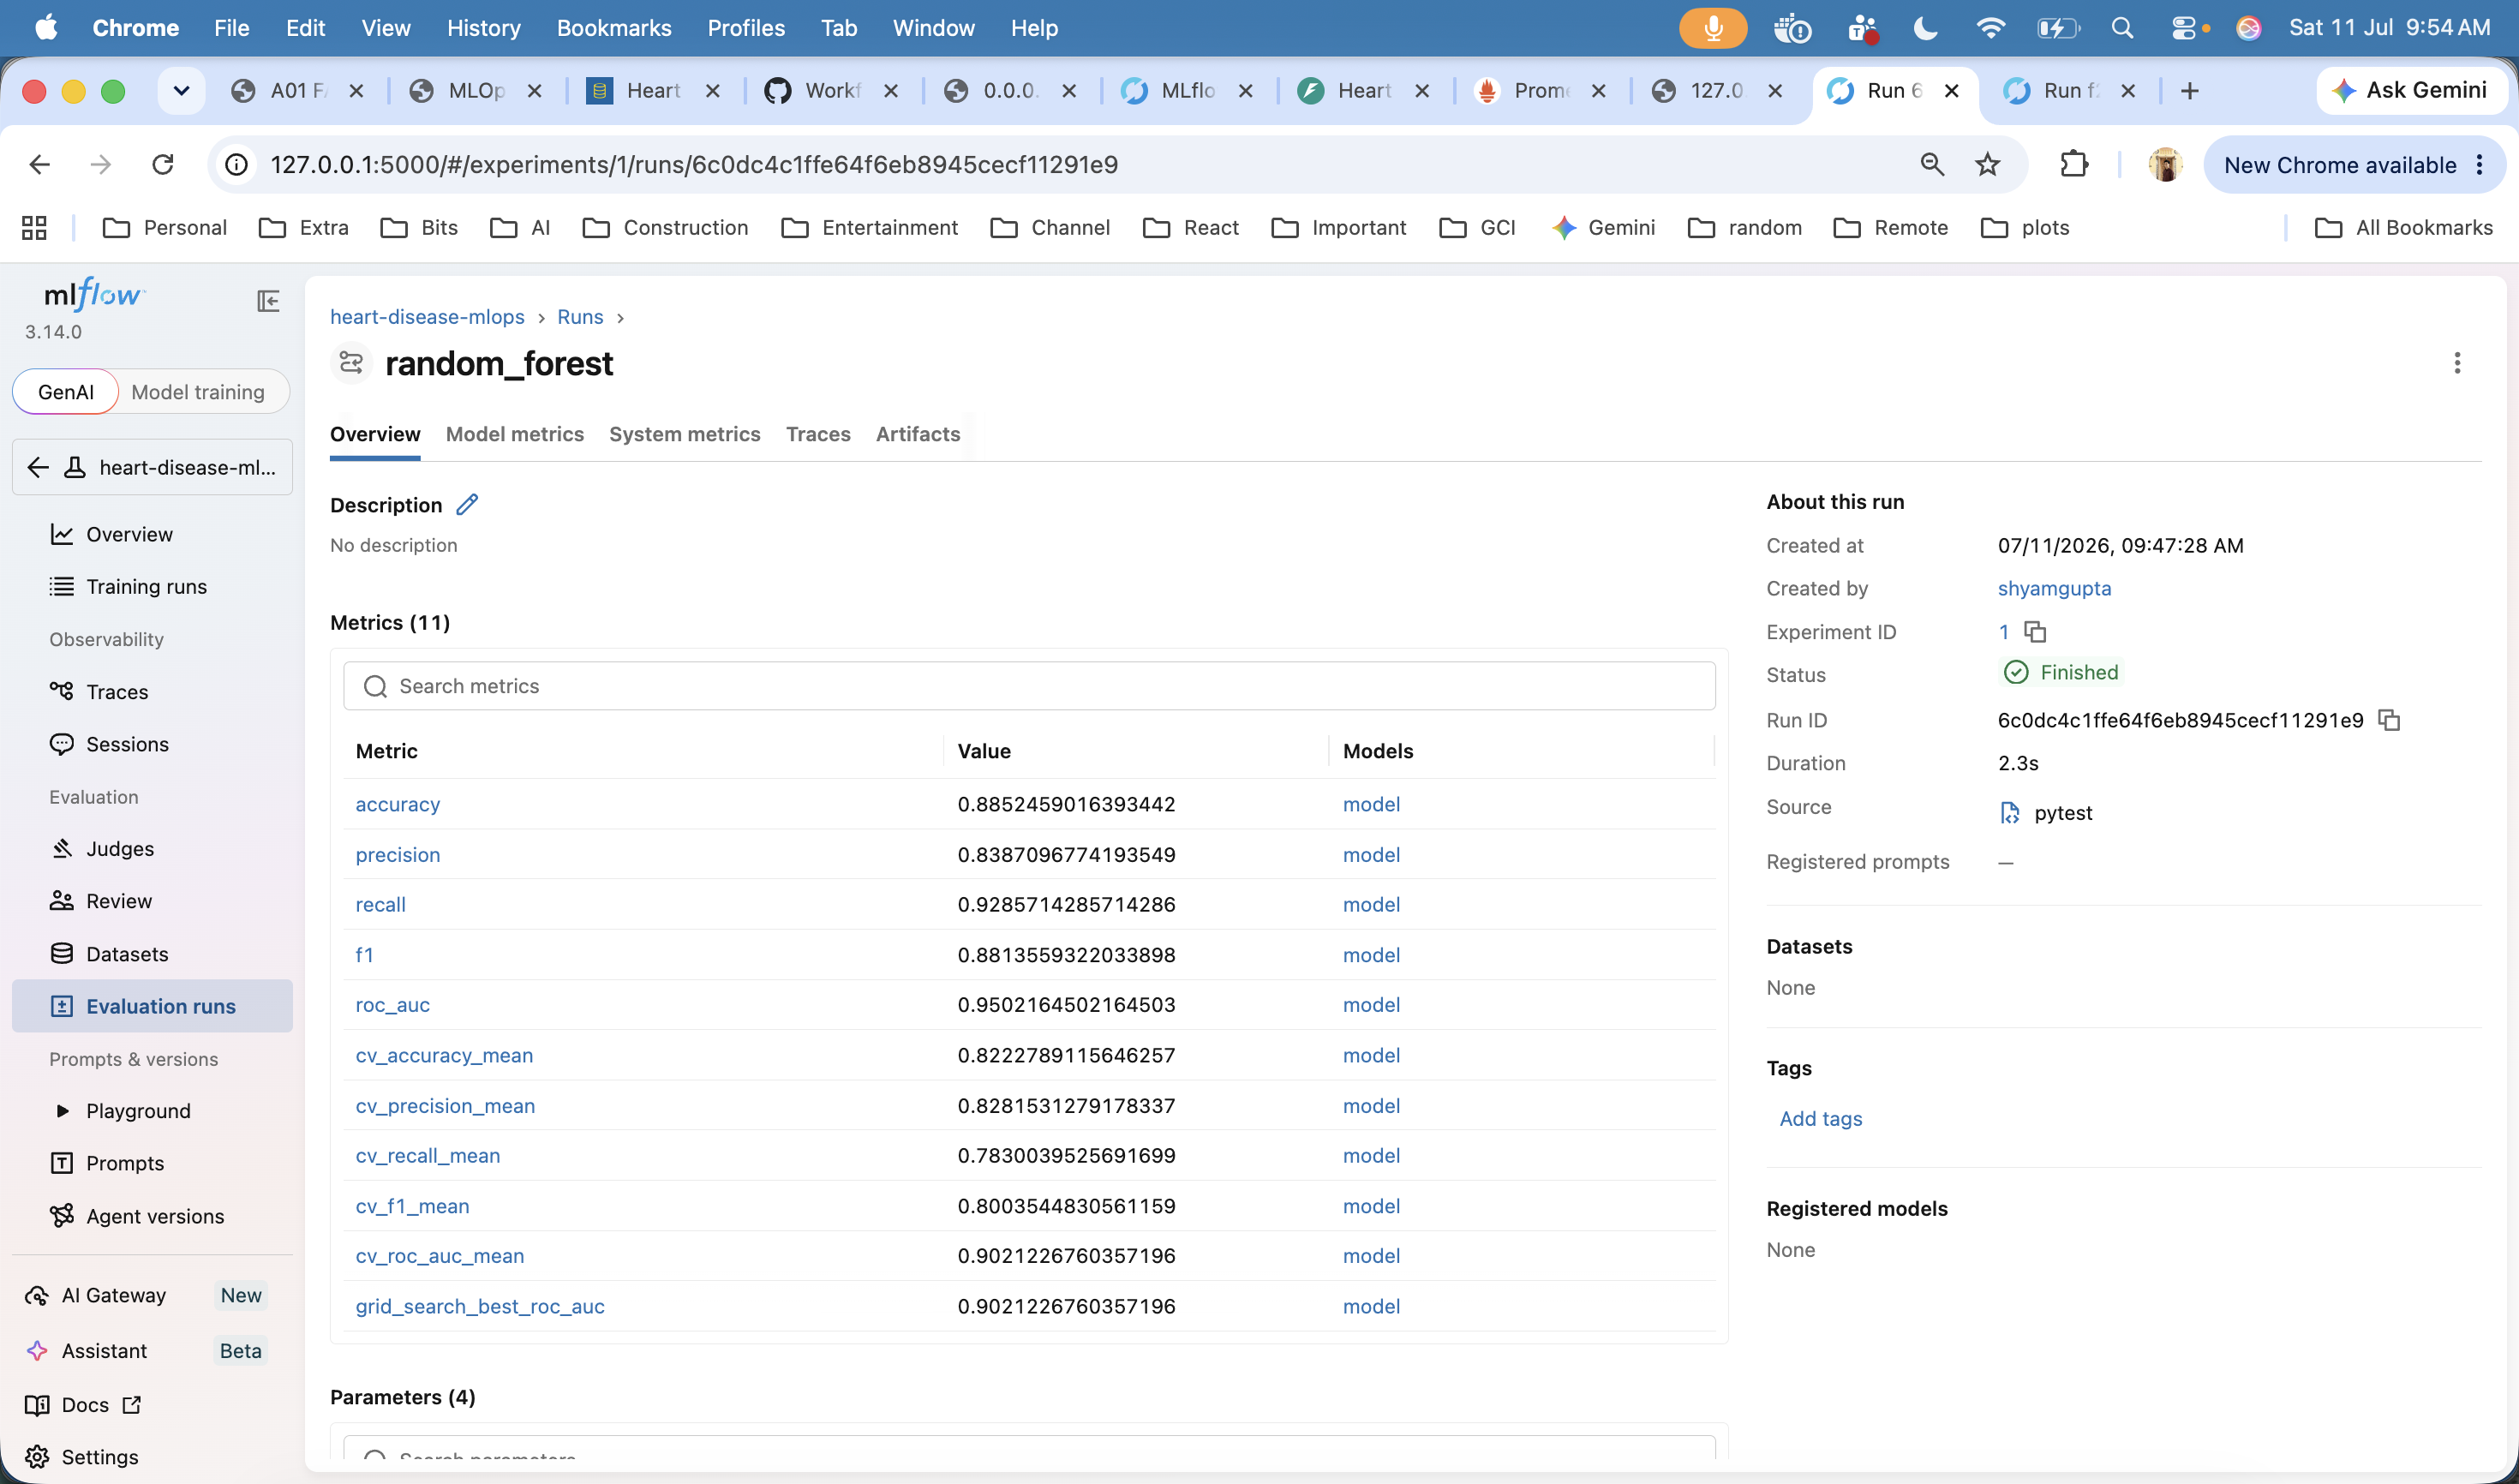
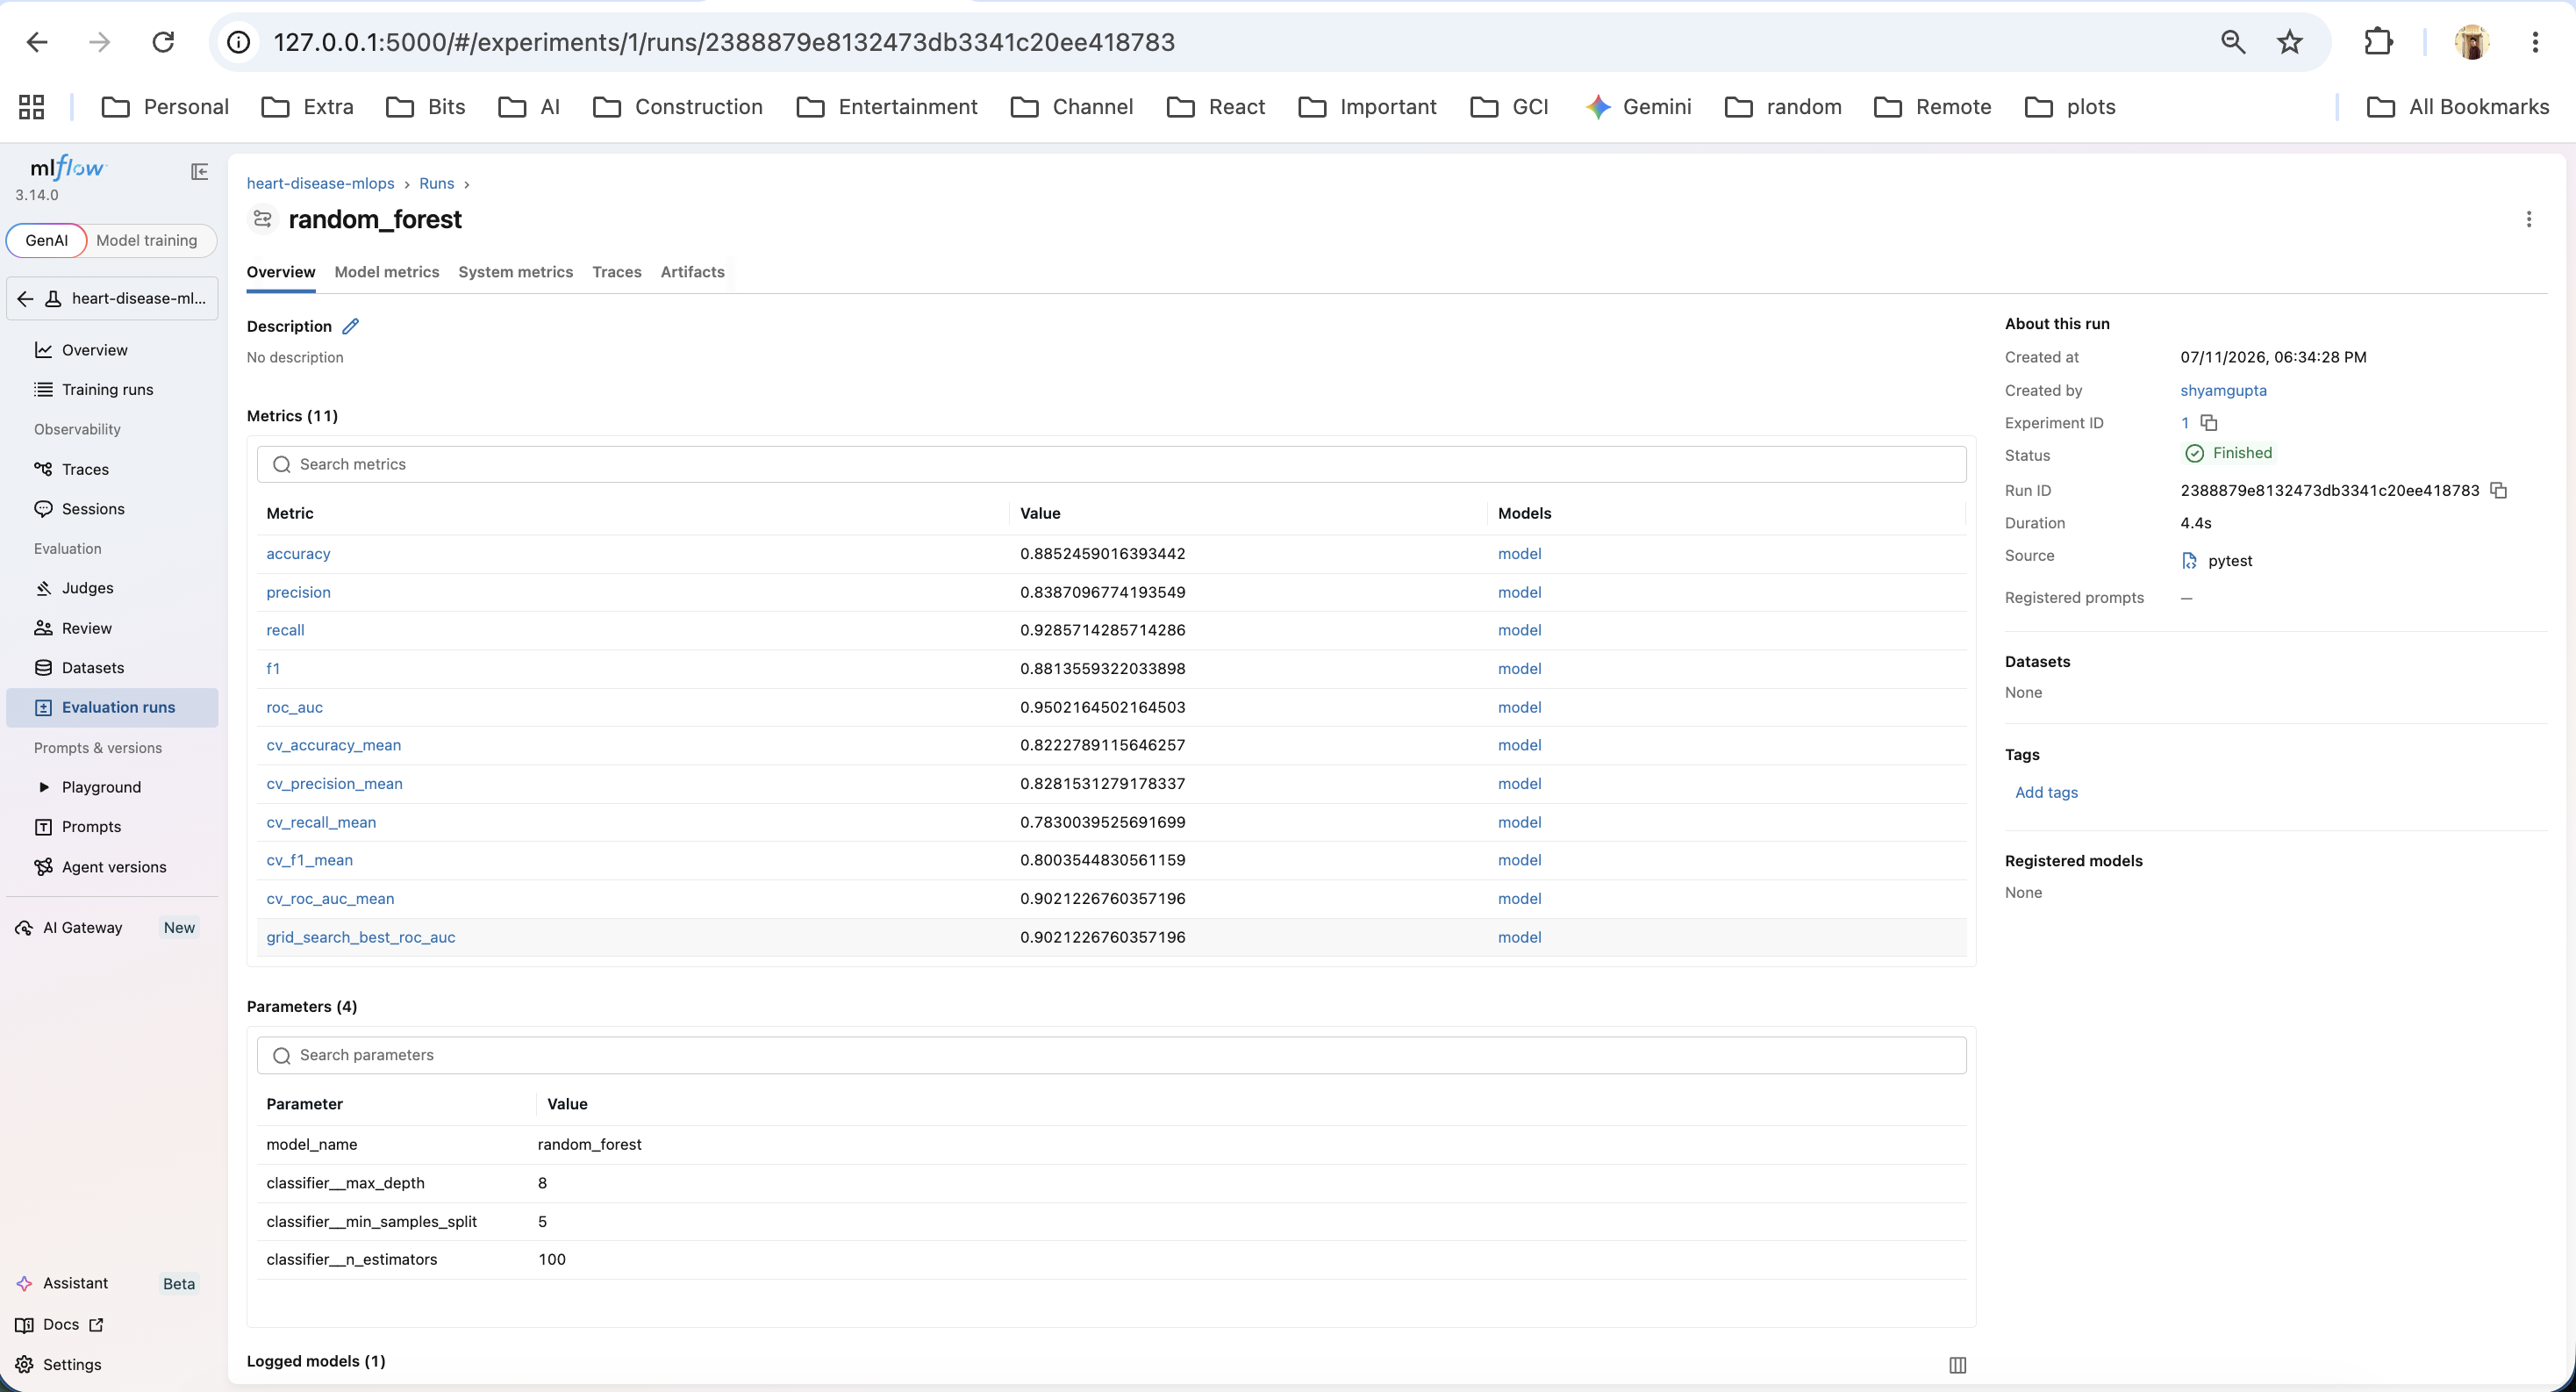
update

diff --git a/docs/ARCHITECTURE.md b/docs/ARCHITECTURE.md
@@ -1,25 +1,28 @@
 # Architecture Overview
 
-The project follows a reproducible MLOps pipeline:
+This project follows a reproducible MLOps pipeline for heart disease prediction, from data preparation to deployment and monitoring.
 
-1. Data ingestion from the UCI Heart Disease Cleveland dataset
-2. Dataset normalization, missing-value handling, scaling, and categorical encoding
-3. Logistic Regression and Random Forest model training with GridSearchCV
-4. Cross-validation and held-out test evaluation
-5. Experiment logging with MLflow, including metrics, parameters, model artifacts, confusion matrices, and ROC curves
-6. Model persistence as reusable sklearn pipelines
-7. FastAPI prediction service with request logging and Prometheus metrics
-8. Dockerized deployment and local Kubernetes exposure
-9. CI/CD automation through GitHub Actions
+## End-to-end flow
 
-## High-level flow
+1. Data ingestion from the UCI Cleveland Heart Disease dataset.
+2. Data preparation and normalization, including missing-value handling, scaling, and categorical encoding.
+3. Model training and tuning for Logistic Regression and Random Forest using scikit-learn.
+4. Evaluation using accuracy, precision, recall, F1-score, and ROC-AUC.
+5. Experiment tracking with MLflow for parameters, metrics, plots, and saved model artifacts.
+6. Model persistence as reusable sklearn pipelines for reproducible inference.
+7. FastAPI-based prediction service with health, prediction, and metrics endpoints.
+8. Containerization with Docker and deployment through Kubernetes manifests.
+9. CI/CD automation with GitHub Actions for linting, tests, training, and Docker validation.
+10. Monitoring with request logging and Prometheus-compatible metrics.
+
+## High-level architecture
 
 ```mermaid
 flowchart LR
     A[UCI Dataset] --> B[Download and Normalize]
     B --> C[EDA Artifacts]
     B --> D[Preprocessing Pipeline]
-    D --> E[GridSearchCV Training]
+    D --> E[Model Training and Tuning]
     E --> F[MLflow Tracking]
     E --> G[Saved sklearn Pipelines]
     G --> H[FastAPI /predict]
@@ -35,4 +38,20 @@ flowchart LR
 
 Client -> FastAPI API -> Saved preprocessing/model pipeline -> Prediction response
 
-The preprocessing steps are stored inside the saved sklearn Pipeline, so inference uses the same imputation, scaling, and one-hot encoding learned during training.
+The preprocessing steps are embedded in the saved sklearn pipeline, so inference uses the same transformations learned during training.
+
+## Component summary
+
+- Data layer: scripts in the data pipeline download and prepare the dataset.
+- Feature engineering layer: preprocessing and encoding logic are implemented in the feature engineering module.
+- Model layer: training and evaluation logic are implemented in the model training module.
+- Tracking layer: MLflow stores runs, metrics, parameters, plots, and artifacts.
+- API layer: FastAPI provides health checks, prediction requests, and metrics exposure.
+- Deployment layer: Docker and Kubernetes package and expose the service.
+- Automation layer: GitHub Actions validates the repository on push and pull request.
+
+## API endpoints
+
+- GET /health: returns service health information.
+- POST /predict: accepts patient features and returns a prediction with confidence.
+- GET /metrics: exposes Prometheus-compatible metrics.

diff --git a/docs/FINAL_REPORT.md b/docs/FINAL_REPORT.md
@@ -230,6 +230,8 @@ Captured screenshots:
 
 - ![MLflow runs](../screenshots/mlflow_runs.png)
 - ![MLflow run details](../screenshots/mlflow_run_details.png)
+- ![MLflow run details](../screenshots/mlflow_run_details1.png)
+- ![MLflow run details](../screenshots/mlflow_run_details2.png)
 
 ## 9. Model Packaging and Reproducibility
 